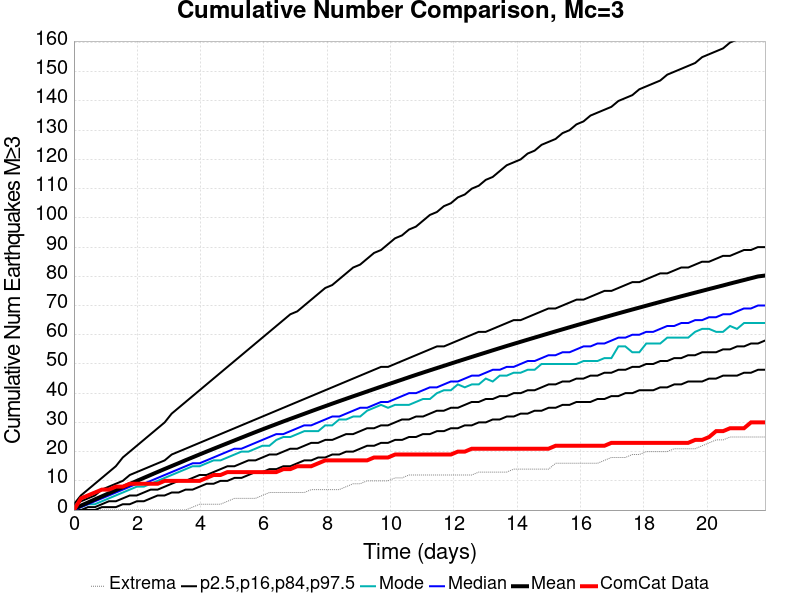
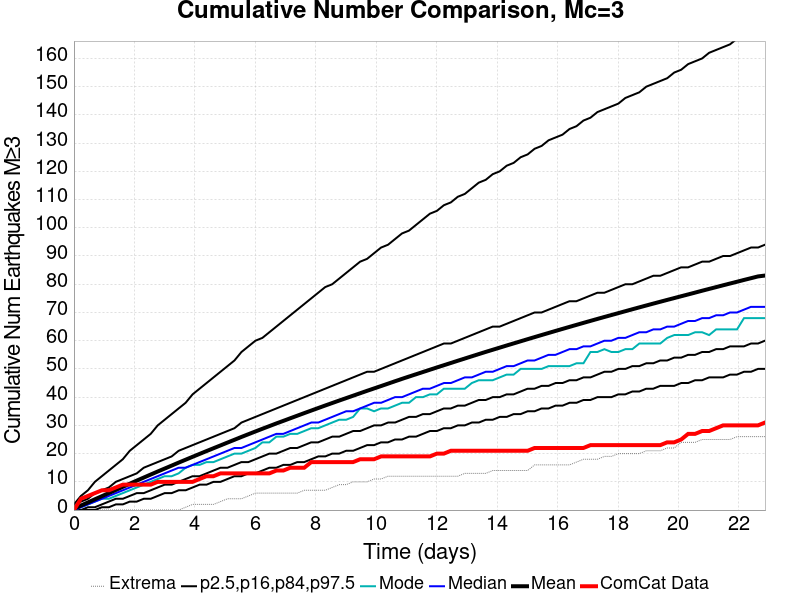
automatic plot and index update from opensha.usc.edu

diff --git a/2019_07_25-ComCatM7p1_ci38457511_19p6DaysAfter_ShakeMapSurfaces-noSpont-full_td-scale1.14/index.html b/2019_07_25-ComCatM7p1_ci38457511_19p6DaysAfter_ShakeMapSurfaces-noSpont-full_td-scale1.14/index.html
@@ -761,15 +761,15 @@ img {
 <p><em><a href="#table-of-contents">(top)</a></em></p>
 <table>
 <thead>
-<tr><th></th><th>1 Day</th><th>1 Week</th><th>21.8 Day</th></tr>
+<tr><th></th><th>1 Day</th><th>1 Week</th><th>22.9 Day</th></tr>
 </thead>
 <tbody>
-<tr><td><strong>M≥3</strong></td><td><img src="plots/comcat_compare_mean_1d_m3.png" alt="Map" /></td><td><img src="plots/comcat_compare_mean_1wk_m3.png" alt="Map" /></td><td><img src="plots/comcat_compare_mean_21.8d_m3.png" alt="Map" /></td></tr>
-<tr><td><strong>M≥4</strong></td><td><img src="plots/comcat_compare_mean_1d_m4.png" alt="Map" /></td><td><img src="plots/comcat_compare_mean_1wk_m4.png" alt="Map" /></td><td><img src="plots/comcat_compare_mean_21.8d_m4.png" alt="Map" /></td></tr>
-<tr><td><strong>M≥5</strong></td><td><img src="plots/comcat_compare_mean_1d_m5.png" alt="Map" /></td><td><img src="plots/comcat_compare_mean_1wk_m5.png" alt="Map" /></td><td><img src="plots/comcat_compare_mean_21.8d_m5.png" alt="Map" /></td></tr>
-<tr><td><strong>M≥6</strong></td><td><img src="plots/comcat_compare_mean_1d_m6.png" alt="Map" /></td><td><img src="plots/comcat_compare_mean_1wk_m6.png" alt="Map" /></td><td><img src="plots/comcat_compare_mean_21.8d_m6.png" alt="Map" /></td></tr>
-<tr><td><strong>M≥7</strong></td><td><img src="plots/comcat_compare_mean_1d_m7.png" alt="Map" /></td><td><img src="plots/comcat_compare_mean_1wk_m7.png" alt="Map" /></td><td><img src="plots/comcat_compare_mean_21.8d_m7.png" alt="Map" /></td></tr>
-<tr><td><strong>M≥8</strong></td><td><img src="plots/comcat_compare_mean_1d_m8.png" alt="Map" /></td><td><img src="plots/comcat_compare_mean_1wk_m8.png" alt="Map" /></td><td><img src="plots/comcat_compare_mean_21.8d_m8.png" alt="Map" /></td></tr>
+<tr><td><strong>M≥3</strong></td><td><img src="plots/comcat_compare_mean_1d_m3.png" alt="Map" /></td><td><img src="plots/comcat_compare_mean_1wk_m3.png" alt="Map" /></td><td><img src="plots/comcat_compare_mean_22.9d_m3.png" alt="Map" /></td></tr>
+<tr><td><strong>M≥4</strong></td><td><img src="plots/comcat_compare_mean_1d_m4.png" alt="Map" /></td><td><img src="plots/comcat_compare_mean_1wk_m4.png" alt="Map" /></td><td><img src="plots/comcat_compare_mean_22.9d_m4.png" alt="Map" /></td></tr>
+<tr><td><strong>M≥5</strong></td><td><img src="plots/comcat_compare_mean_1d_m5.png" alt="Map" /></td><td><img src="plots/comcat_compare_mean_1wk_m5.png" alt="Map" /></td><td><img src="plots/comcat_compare_mean_22.9d_m5.png" alt="Map" /></td></tr>
+<tr><td><strong>M≥6</strong></td><td><img src="plots/comcat_compare_mean_1d_m6.png" alt="Map" /></td><td><img src="plots/comcat_compare_mean_1wk_m6.png" alt="Map" /></td><td><img src="plots/comcat_compare_mean_22.9d_m6.png" alt="Map" /></td></tr>
+<tr><td><strong>M≥7</strong></td><td><img src="plots/comcat_compare_mean_1d_m7.png" alt="Map" /></td><td><img src="plots/comcat_compare_mean_1wk_m7.png" alt="Map" /></td><td><img src="plots/comcat_compare_mean_22.9d_m7.png" alt="Map" /></td></tr>
+<tr><td><strong>M≥8</strong></td><td><img src="plots/comcat_compare_mean_1d_m8.png" alt="Map" /></td><td><img src="plots/comcat_compare_mean_1wk_m8.png" alt="Map" /></td><td><img src="plots/comcat_compare_mean_22.9d_m8.png" alt="Map" /></td></tr>
 </tbody>
 </table>
 <h3 id="comcat-depth-distribution">ComCat Depth Distribution</h3>

diff --git a/index.html b/index.html
@@ -28,7 +28,7 @@ img {
 <tr><td>2019/08/09</td><td><a href="2019_08_09-ComCatM7p1_ci38457511_ShakeMapSurfaces_NoERT-noSpont-no_ert/index.html">ComCat M7.1 (ci38457511), ShakeMap Surfaces, NoERT</a></td><td>2019/07/05</td><td>100000</td><td>Done</td><td>2019/08/16</td></tr>
 <tr><td>2019/08/03</td><td><a href="2019_08_03-ComCatM7p1_ci38457511_28DaysAfter_ShakeMapSurfaces-noSpont-full_td-scale1.14/index.html">ComCat M7.1 (ci38457511), 28 Days After, ShakeMap Surfaces</a></td><td>2019/08/02</td><td>100000</td><td>Done</td><td>2019/08/16</td></tr>
 <tr><td>2019/07/27</td><td><a href="2019_07_27-ComCatM7p1_ci38457511_21DaysAfter_ShakeMapSurfaces-noSpont-full_td-scale1.14/index.html">ComCat M7.1 (ci38457511), 21 Days After, ShakeMap Surfaces</a></td><td>2019/07/26</td><td>100000</td><td>Done</td><td>2019/08/16</td></tr>
-<tr><td>2019/07/25</td><td><a href="2019_07_25-ComCatM7p1_ci38457511_19p6DaysAfter_ShakeMapSurfaces-noSpont-full_td-scale1.14/index.html">ComCat M7.1 (ci38457511), 19.6 Days After, ShakeMap Surfaces</a></td><td>2019/07/25</td><td>100000</td><td>Done</td><td>2019/08/16</td></tr>
+<tr><td>2019/07/25</td><td><a href="2019_07_25-ComCatM7p1_ci38457511_19p6DaysAfter_ShakeMapSurfaces-noSpont-full_td-scale1.14/index.html">ComCat M7.1 (ci38457511), 19.6 Days After, ShakeMap Surfaces</a></td><td>2019/07/25</td><td>100000</td><td>Done</td><td>2019/08/17</td></tr>
 <tr><td>2019/07/18</td><td><a href="2019_07_18-ComCatM7p1_ci38457511_InvertedSurface_ShakeMapSurface-noSpont-full_td-scale1.14/index.html">ComCat M7.1 (ci38457511), Inverted Surface, ShakeMap Surface</a></td><td>2019/07/05</td><td>100000</td><td>Done</td><td>2019/08/12</td></tr>
 <tr><td>2019/07/16</td><td><a href="2019_07_16-ComCatM7p1_ci38457511_11DaysAfter_ShakeMapSurfaces-noSpont-full_td-scale1.14/index.html">ComCat M7.1 (ci38457511), 11 Days After, ShakeMap Surfaces</a></td><td>2019/07/16</td><td>100000</td><td>Done</td><td>2019/08/16</td></tr>
 <tr><td>2019/07/16</td><td><a href="2019_07_16-ComCatM7p1_ci38457511_7DaysAfter_ShakeMapSurfaces-noSpont-full_td-scale1.14/index.html">ComCat M7.1 (ci38457511), 7 Days After, ShakeMap Surfaces</a></td><td>2019/07/12</td><td>100000</td><td>Done</td><td>2019/08/11</td></tr>

diff --git a/2019_07_25-ComCatM7p1_ci38457511_19p6DaysAfter_ShakeMapSurfaces-noSpont-full_td-scale1.14/README.md b/2019_07_25-ComCatM7p1_ci38457511_19p6DaysAfter_ShakeMapSurfaces-noSpont-full_td-scale1.14/README.md
@@ -703,14 +703,14 @@ These plots compare simulated sequences with data from ComCat. All plots only co
 ### ComCat Mean Spatial Distribution
 *[(top)](#table-of-contents)*
 
-|  | 1 Day | 1 Week | 21.8 Day |
+|  | 1 Day | 1 Week | 22.9 Day |
 |-----|-----|-----|-----|
-| **M≥3** | ![Map](plots/comcat_compare_mean_1d_m3.png) | ![Map](plots/comcat_compare_mean_1wk_m3.png) | ![Map](plots/comcat_compare_mean_21.8d_m3.png) |
-| **M≥4** | ![Map](plots/comcat_compare_mean_1d_m4.png) | ![Map](plots/comcat_compare_mean_1wk_m4.png) | ![Map](plots/comcat_compare_mean_21.8d_m4.png) |
-| **M≥5** | ![Map](plots/comcat_compare_mean_1d_m5.png) | ![Map](plots/comcat_compare_mean_1wk_m5.png) | ![Map](plots/comcat_compare_mean_21.8d_m5.png) |
-| **M≥6** | ![Map](plots/comcat_compare_mean_1d_m6.png) | ![Map](plots/comcat_compare_mean_1wk_m6.png) | ![Map](plots/comcat_compare_mean_21.8d_m6.png) |
-| **M≥7** | ![Map](plots/comcat_compare_mean_1d_m7.png) | ![Map](plots/comcat_compare_mean_1wk_m7.png) | ![Map](plots/comcat_compare_mean_21.8d_m7.png) |
-| **M≥8** | ![Map](plots/comcat_compare_mean_1d_m8.png) | ![Map](plots/comcat_compare_mean_1wk_m8.png) | ![Map](plots/comcat_compare_mean_21.8d_m8.png) |
+| **M≥3** | ![Map](plots/comcat_compare_mean_1d_m3.png) | ![Map](plots/comcat_compare_mean_1wk_m3.png) | ![Map](plots/comcat_compare_mean_22.9d_m3.png) |
+| **M≥4** | ![Map](plots/comcat_compare_mean_1d_m4.png) | ![Map](plots/comcat_compare_mean_1wk_m4.png) | ![Map](plots/comcat_compare_mean_22.9d_m4.png) |
+| **M≥5** | ![Map](plots/comcat_compare_mean_1d_m5.png) | ![Map](plots/comcat_compare_mean_1wk_m5.png) | ![Map](plots/comcat_compare_mean_22.9d_m5.png) |
+| **M≥6** | ![Map](plots/comcat_compare_mean_1d_m6.png) | ![Map](plots/comcat_compare_mean_1wk_m6.png) | ![Map](plots/comcat_compare_mean_22.9d_m6.png) |
+| **M≥7** | ![Map](plots/comcat_compare_mean_1d_m7.png) | ![Map](plots/comcat_compare_mean_1wk_m7.png) | ![Map](plots/comcat_compare_mean_22.9d_m7.png) |
+| **M≥8** | ![Map](plots/comcat_compare_mean_1d_m8.png) | ![Map](plots/comcat_compare_mean_1wk_m8.png) | ![Map](plots/comcat_compare_mean_22.9d_m8.png) |
 
 ### ComCat Depth Distribution
 *[(top)](#table-of-contents)*

diff --git a/README.md b/README.md
@@ -5,7 +5,7 @@
 | 2019/08/09 | [ComCat M7.1 (ci38457511), ShakeMap Surfaces, NoERT](2019_08_09-ComCatM7p1_ci38457511_ShakeMapSurfaces_NoERT-noSpont-no_ert/README.md) | 2019/07/05 | 100000 | Done | 2019/08/16 |
 | 2019/08/03 | [ComCat M7.1 (ci38457511), 28 Days After, ShakeMap Surfaces](2019_08_03-ComCatM7p1_ci38457511_28DaysAfter_ShakeMapSurfaces-noSpont-full_td-scale1.14/README.md) | 2019/08/02 | 100000 | Done | 2019/08/16 |
 | 2019/07/27 | [ComCat M7.1 (ci38457511), 21 Days After, ShakeMap Surfaces](2019_07_27-ComCatM7p1_ci38457511_21DaysAfter_ShakeMapSurfaces-noSpont-full_td-scale1.14/README.md) | 2019/07/26 | 100000 | Done | 2019/08/16 |
-| 2019/07/25 | [ComCat M7.1 (ci38457511), 19.6 Days After, ShakeMap Surfaces](2019_07_25-ComCatM7p1_ci38457511_19p6DaysAfter_ShakeMapSurfaces-noSpont-full_td-scale1.14/README.md) | 2019/07/25 | 100000 | Done | 2019/08/16 |
+| 2019/07/25 | [ComCat M7.1 (ci38457511), 19.6 Days After, ShakeMap Surfaces](2019_07_25-ComCatM7p1_ci38457511_19p6DaysAfter_ShakeMapSurfaces-noSpont-full_td-scale1.14/README.md) | 2019/07/25 | 100000 | Done | 2019/08/17 |
 | 2019/07/18 | [ComCat M7.1 (ci38457511), Inverted Surface, ShakeMap Surface](2019_07_18-ComCatM7p1_ci38457511_InvertedSurface_ShakeMapSurface-noSpont-full_td-scale1.14/README.md) | 2019/07/05 | 100000 | Done | 2019/08/12 |
 | 2019/07/16 | [ComCat M7.1 (ci38457511), 11 Days After, ShakeMap Surfaces](2019_07_16-ComCatM7p1_ci38457511_11DaysAfter_ShakeMapSurfaces-noSpont-full_td-scale1.14/README.md) | 2019/07/16 | 100000 | Done | 2019/08/16 |
 | 2019/07/16 | [ComCat M7.1 (ci38457511), 7 Days After, ShakeMap Surfaces](2019_07_16-ComCatM7p1_ci38457511_7DaysAfter_ShakeMapSurfaces-noSpont-full_td-scale1.14/README.md) | 2019/07/12 | 100000 | Done | 2019/08/11 |
